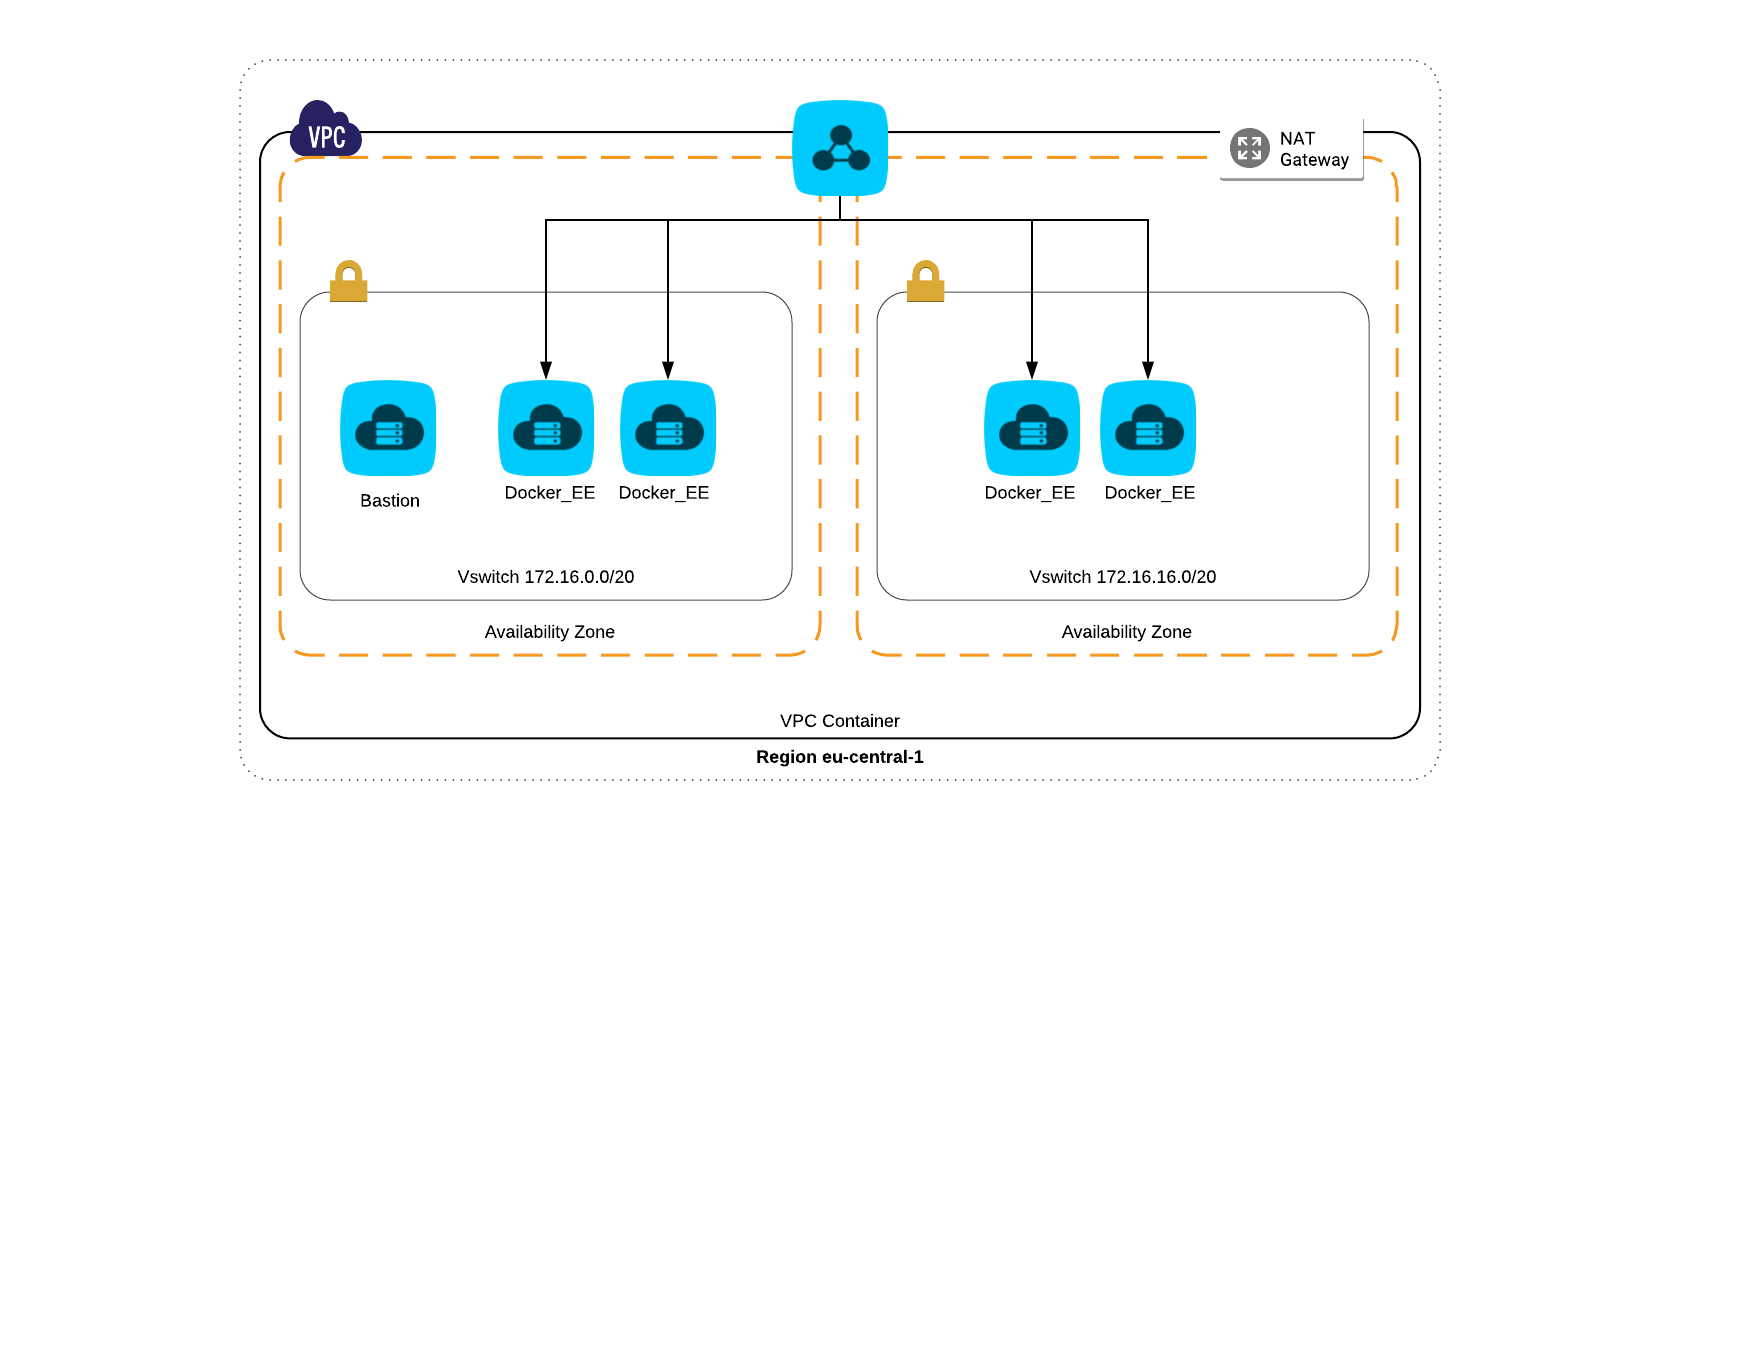
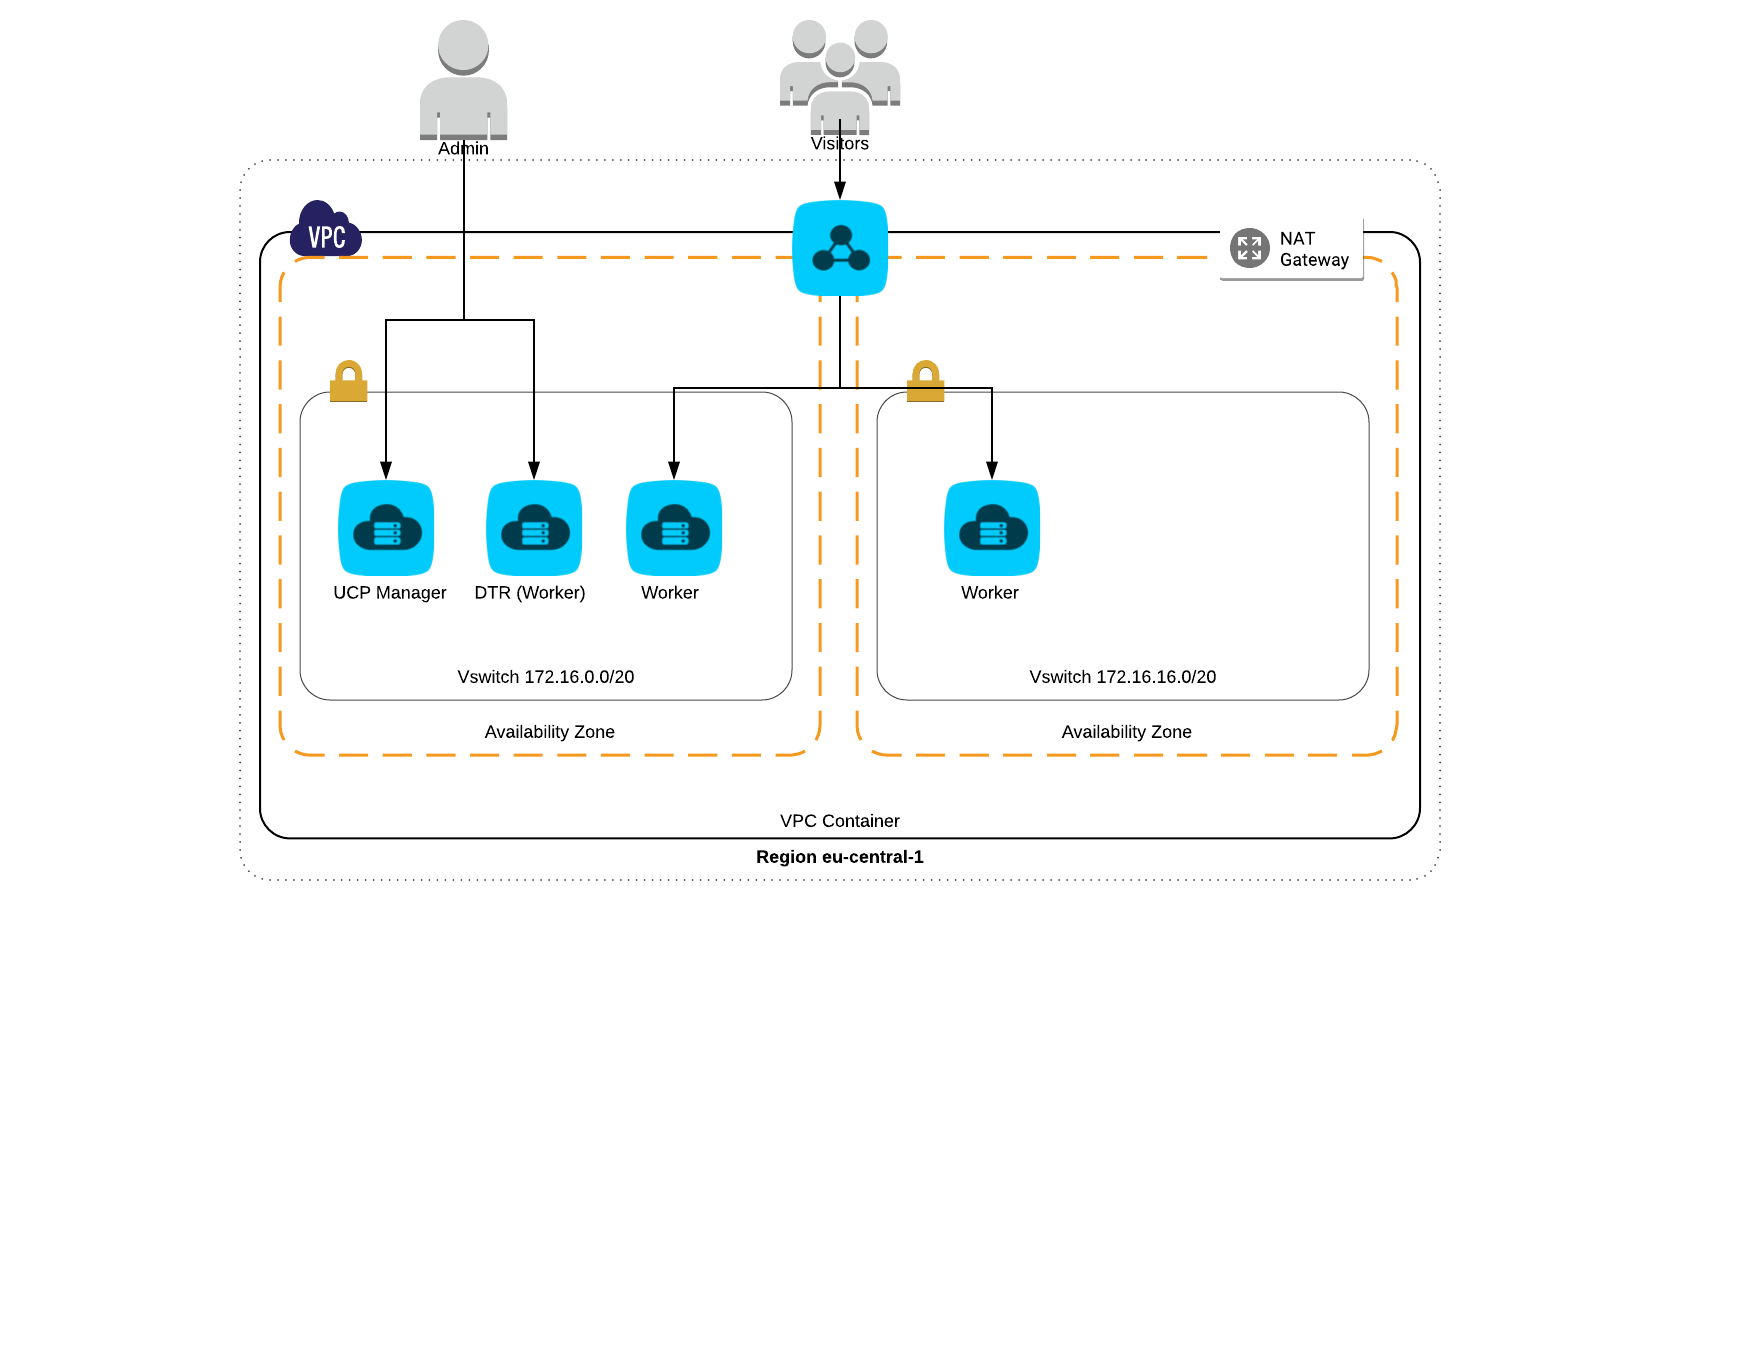
Update README

Changed region(s): [[0.1562, 0.0, 0.8125, 0.6485], [0.4375, 0.4324, 0.5, 0.4941], [0.75, 0.4632, 0.7812, 0.4941]]

diff --git a/README.md b/README.md
@@ -58,6 +58,10 @@ terraform plan|apply|destroy \
   solutions/base_vpc
 ```
 
+### Get Docker Enterprise Edition for Ubuntu Trial Url
+Please follow the prerequisites to get your trial access of Docker EE :
+[https://docs.docker.com/install/linux/docker-ee/ubuntu/]()
+
 ### Docker EE with UCP (Universal Control Plane) and DTR (Docker Trusted Registry)
 ```bash
 terraform init solutions/docker_ha
@@ -69,14 +73,25 @@ terraform plan|apply|destroy \
   solutions/docker_ha
 ```
 
-### Get Docker Enterprise Edition for Ubuntu Trial Url
-https://docs.docker.com/install/linux/docker-ee/ubuntu/
-
 ### Add worker nodes
-https://docs.docker.com/ee/ucp/admin/install/#step-7-join-worker-nodes
+Default login: admin / admindocker
+To finalise the setup of the cluster by adding the worker nodes, you need to login into the UCP web ui and follow:
+[https://docs.docker.com/ee/ucp/admin/install/#step-7-join-worker-nodes]()
 
+
+### Setup SSL
+https://docs.docker.com/datacenter/dtr/2.0/configure/config-security/#install-registry-certificates-on-client-docker-daemons
+```bash
+export DOMAIN_NAME=dtr.docker.alicloudlabs.win
+export DOMAIN_NAME=dtr.yourdomain.com
+openssl s_client -connect $DOMAIN_NAME:443 -showcerts </dev/null 2>/dev/null | openssl x509 -outform PEM | sudo tee /usr/local/share/ca-certificates/$DOMAIN_NAME.crt
+sudo update-ca-certificates
+``
 
 ### Setup Docker Trusted Registry (DTR) on a worker node
-https://docs.docker.com/ee/dtr/admin/install/
+Choose one node worker already added to the cluster and then follow:
+[https://docs.docker.com/ee/dtr/admin/install/]()
+
+You can set the option "“Disabled TLS verification For UCP" on installing DTR to avoid issue with the UDP certificate.
 
 ## Issues
